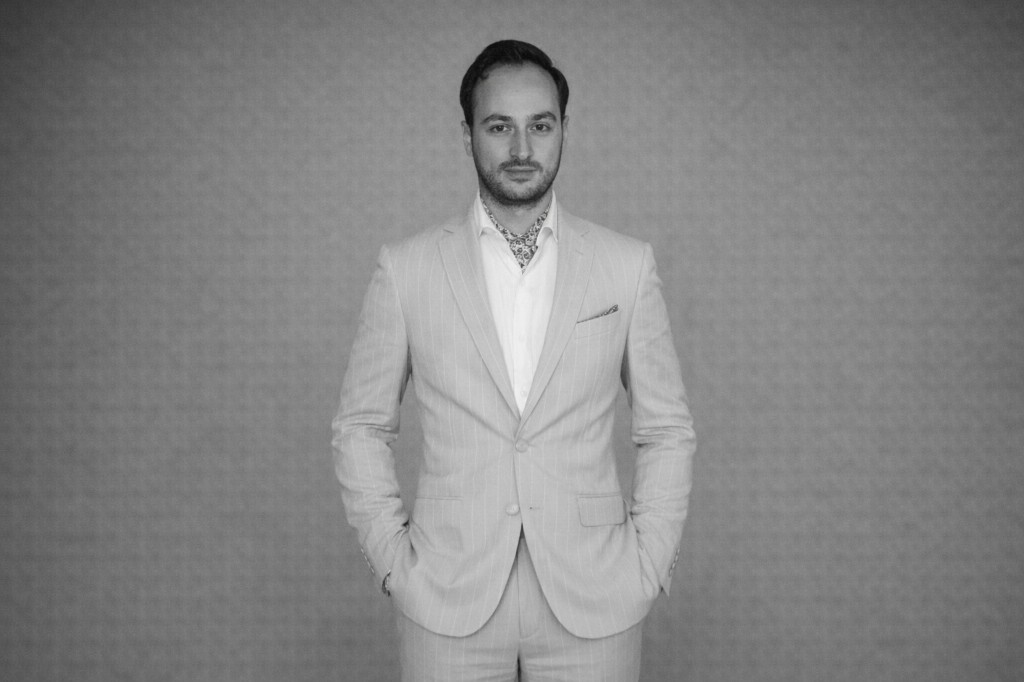
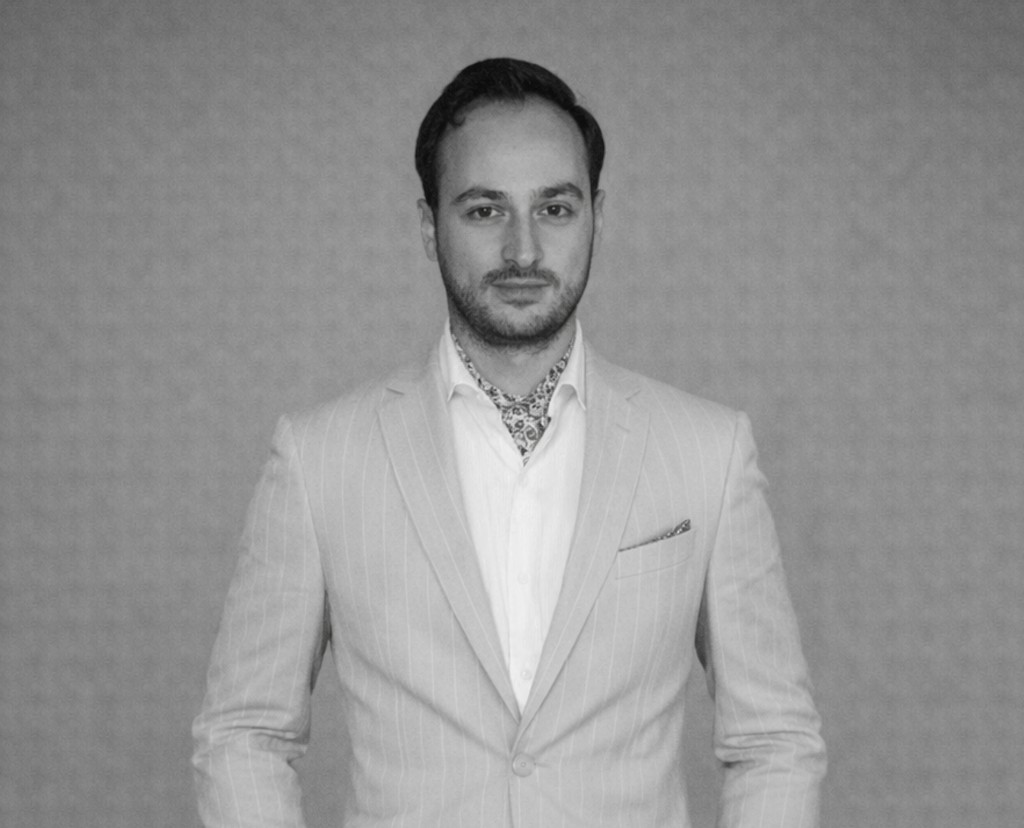
update: ekip fotograflari ve kucuk duzeltmeler
- Burak ve Seyyit profil fotograflari guncellendi
- Fotograf crop ayarlari duzeltildi (object-position)
- AQE entegrasyon bolumu mobilde yan yana
- Footer engine linkleri kisaltma kaldirildi

Made-with: Cursor

diff --git a/src/app/engines/aqe/page.tsx b/src/app/engines/aqe/page.tsx
@@ -395,18 +395,18 @@ export default function AQEPage() {
               )}
 
               <div className="relative z-10">
-                <div className="mb-6 flex flex-col items-center justify-center gap-4 sm:flex-row">
-                  <div className="w-14 h-14 rounded-xl bg-gradient-to-br from-violet-500 to-indigo-600 flex items-center justify-center">
-                    <span className="text-white font-bold">AQE</span>
+                <div className="mb-6 flex flex-row items-center justify-center gap-3 sm:gap-4">
+                  <div className="w-12 h-12 sm:w-14 sm:h-14 rounded-xl bg-gradient-to-br from-violet-500 to-indigo-600 flex items-center justify-center flex-shrink-0">
+                    <span className="text-white font-bold text-sm sm:text-base">AQE</span>
                   </div>
-                  <div className="flex flex-col items-center gap-1">
-                    <svg className="w-6 h-6 text-foreground-subtle" fill="none" stroke="currentColor" viewBox="0 0 24 24">
+                  <div className="flex flex-col items-center gap-0.5">
+                    <svg className="w-5 h-5 sm:w-6 sm:h-6 text-foreground-subtle" fill="none" stroke="currentColor" viewBox="0 0 24 24">
                       <path strokeLinecap="round" strokeLinejoin="round" strokeWidth={2} d="M17 8l4 4m0 0l-4 4m4-4H3" />
                     </svg>
-                    <span className="text-[10px] text-foreground-subtle">veri akışı</span>
+                    <span className="text-[9px] sm:text-[10px] text-foreground-subtle">veri akışı</span>
                   </div>
-                  <div className="w-14 h-14 rounded-xl bg-gradient-to-br from-[#7A8471] to-[#5C6455] flex items-center justify-center">
-                    <span className="text-white font-bold">HAE</span>
+                  <div className="w-12 h-12 sm:w-14 sm:h-14 rounded-xl bg-gradient-to-br from-[#7A8471] to-[#5C6455] flex items-center justify-center flex-shrink-0">
+                    <span className="text-white font-bold text-sm sm:text-base">HAE</span>
                   </div>
                 </div>
 

diff --git a/src/components/sections/Footer.tsx b/src/components/sections/Footer.tsx
@@ -10,8 +10,8 @@ const footerLinks = {
     href: p.href || `#products`,
   })),
   engines: [
-    { label: "HAE — Human Analysis Engine", href: "/engines/hae" },
-    { label: "AQE — Adaptive Question Engine", href: "/engines/aqe" },
+    { label: "Human Analysis Engine", href: "/engines/hae" },
+    { label: "Adaptive Question Engine", href: "/engines/aqe" },
   ],
   company: [
     { label: "Hakkımızda", href: "/about" },
